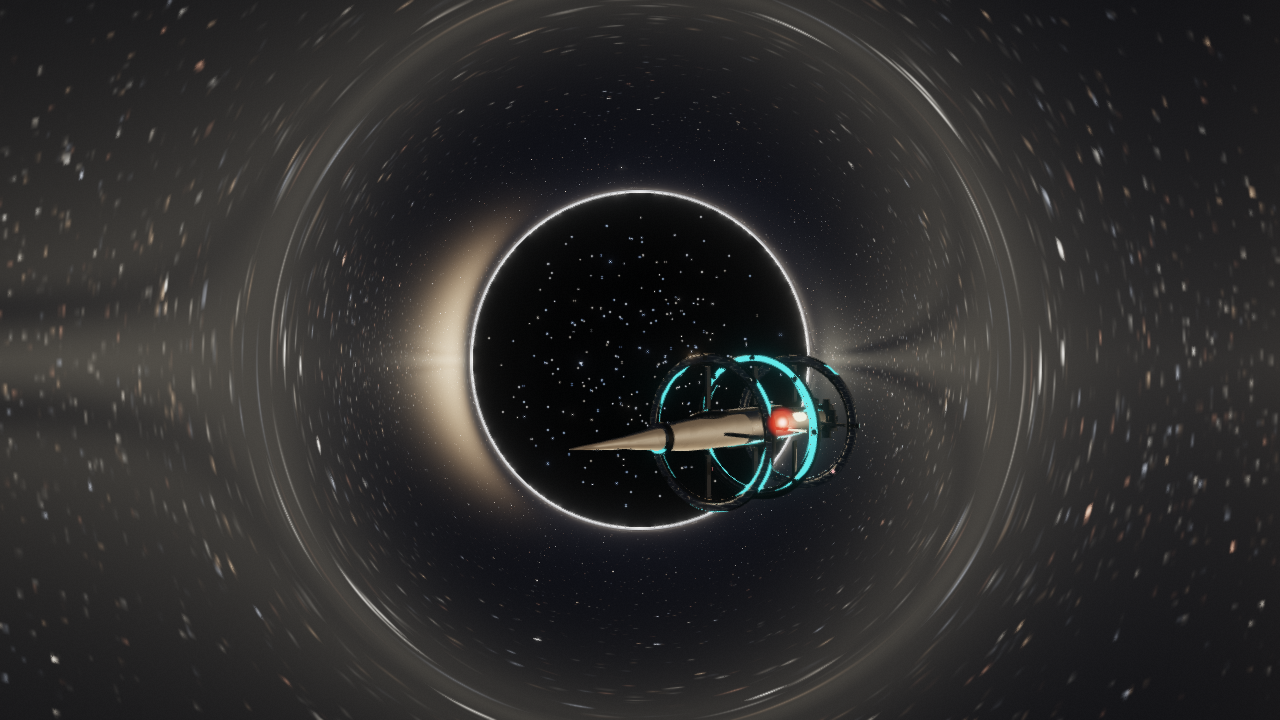
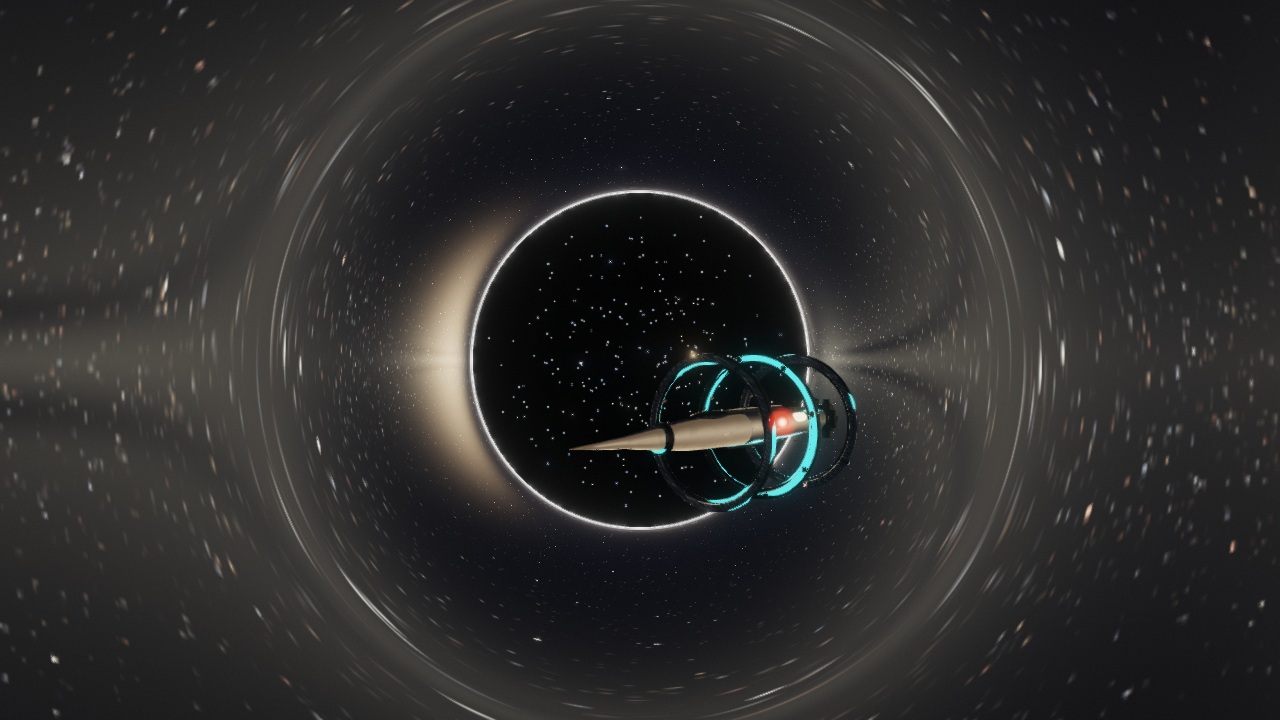
fix(ship): free-floating spinning rings, warp-gated aura, dimmer trails / свободные кольца, аура только в варпе, прозрачнее шлейф
- ring ship: remove hull-to-ring pylons (96 faces in the local ignored ring_ship.obj, plus 4 spokes per ring in the procedural fallback); rings now float free and spin in their own plane
- warp aura/cocoon: render only when warpVis > 0.1 and thruster > 0.05, never on idle or plain boost
- conventional boost: keep fuel consumption in ship::spendBoostFuel; fuelAccel only scales the engine flare
- trails: halve line intensity so the hull and starfield read through the cocoon
- update the static check for free rings; keep the Blender generator pylon-free
- refs: ship.png and ship_ring.png (visual batch)

Changed region(s): [[0.5, 0.4889, 0.6562, 0.7028]]

diff --git a/src/SceneManager.cpp b/src/SceneManager.cpp
@@ -36,6 +36,10 @@ bool g_shipVisible = false;
 float g_shipPos[3] = {0.0f, 0.0f, 0.0f};
 float g_shipYaw = 0.0f;
 float g_shipThruster = 0.7f;  // v3.3.0: тяга 0..1 (шлейф/движок от скорости)
+// v4.1: визуальный коэффициент обычного форсажа (0..1). Топливо живёт в
+// ShipState (m_ship.fuel), здесь только множитель для двигателя/эффектов,
+// чтобы не дублировать расход и не тратить его дважды.
+float g_fuelAccel = 0.0f;
 int g_shipStyle = 0;  // 0 Dart, 1 Ring Ship (IXS), 2 Shuttle, 3 Model (OBJ)
 float g_shipHull = 1.0f;  // v4.0.0: 1 = новый корпус, 0 = полностью побитый
 static ShipCustomization g_shipCustomization;
@@ -98,6 +102,12 @@ void setThruster(float k) {
   g_shipThruster = k;
 }
 float thruster() { return g_shipThruster; }
+void setFuelAccel(float k) {
+  if (k < 0.0f) k = 0.0f;
+  if (k > 1.0f) k = 1.0f;
+  g_fuelAccel = k;
+}
+float fuelAccel() { return g_fuelAccel; }
 void setShipHull(float integrity) {
   if (integrity < 0.0f) integrity = 0.0f;
   if (integrity > 1.0f) integrity = 1.0f;
@@ -1818,13 +1828,11 @@ void SceneManager::render(const Camera& camera, int fbWidth, int fbHeight, float
           parts.push_back({{0.0f, 0.0f, -0.82f}, {0.075f, 0.075f, 0.20f}, hullCol, 0, 0.90f, 0.32f});
           parts.push_back({{0.0f, 0.0f, -1.10f}, {0.030f, 0.030f, 0.30f}, hullCol, 0, 0.90f, 0.32f});
           parts.push_back({{0.0f, 0.0f, -1.38f}, {0.013f, 0.013f, 0.10f}, wingCol, 0, 0.72f, 0.45f});
-          // Три кольца, каждое на кресте из 4 пилонов (±x/±y, без поворотов).
-          for (float ringZ : {-0.44f, 0.0f, 0.44f}) {
+          // v4.1: три свободных варп-обруча вокруг корпуса, без спиц/пилонов.
+          // Раньше 4 спицы на кольцо образовывали продольные «рельсы» и
+          // визуально сшивали все три кольца в одну клетку.
+          for (float ringZ : {-0.50f, 0.0f, 0.50f}) {
             parts.push_back({{0.0f, 0.0f, ringZ}, {1.0f, 1.0f, 1.0f}, wingCol, 1, 0.78f, 0.28f});
-            parts.push_back({{0.20f, 0.0f, ringZ}, {0.13f, 0.014f, 0.035f}, wingCol, 0, 0.72f, 0.45f});
-            parts.push_back({{-0.20f, 0.0f, ringZ}, {0.13f, 0.014f, 0.035f}, wingCol, 0, 0.72f, 0.45f});
-            parts.push_back({{0.0f, 0.20f, ringZ}, {0.014f, 0.13f, 0.035f}, wingCol, 0, 0.72f, 0.45f});
-            parts.push_back({{0.0f, -0.20f, ringZ}, {0.014f, 0.13f, 0.035f}, wingCol, 0, 0.72f, 0.45f});
           }
           // Корма: обтекатель + центральное сопло с горлом + венец из 6 сопел.
           parts.push_back({{0.0f, 0.0f, 0.62f}, {0.135f, 0.135f, 0.16f}, hullCol, 0, 0.90f, 0.32f});
@@ -2266,10 +2274,12 @@ void SceneManager::render(const Camera& camera, int fbWidth, int fbHeight, float
         glBlendFunc(GL_SRC_ALPHA, GL_ONE);
         // v3.9.0: варп-кокон — эллипсоидный ореол из бегущих струй,
         // носовой веер, кормовой хвост и хризалидная оболочка.
-        // Аура видна ТОЛЬКО при движении с варп-искажением (warpVis > 0.001f).
-        if (warpVis > 0.001f) {
+        // Аура видна ТОЛЬКО при движении с варп-искажением (warpVis > 0.1f)
+        // И при активной тяге (thruster > 0.05f) — не на холостом ходу.
+        const float thr0 = warpdrive::thruster();
+        if (warpVis > 0.1f && thr0 > 0.05f) {
           const float warpAuraFade = glm::smoothstep(0.01f, 0.20f, warpVis);
-          const float thr = warpdrive::thruster();
+          const float thr = thr0 * (1.0f + 0.3f * warpdrive::fuelAccel());
           const float driftK = 1.1f + 5.5f * warpVis + 1.2f * thr;
           const float elongK = 1.0f + 0.35f * warpVis + 0.05f * thr;
           const float energyK = warpAuraFade * (0.30f + 0.75f * warpVis + 0.10f * thr);
@@ -2303,6 +2313,8 @@ void SceneManager::render(const Camera& camera, int fbWidth, int fbHeight, float
           s_tailLines.drawLines();
           m_trailShader->unbind();
         }
+        // v4.1: топливо обычного форсажа расходует ship::spendBoostFuel()
+        // в AppGL; здесь только визуальный отклик, без второго списания.
         // Движок: 1 крупная пульсирующая КРАСНАЯ точка за кормой.
         {
           const float sy = warpdrive::shipYaw();
@@ -2312,9 +2324,12 @@ void SceneManager::render(const Camera& camera, int fbWidth, int fbHeight, float
           const float ex = warpdrive::shipX() + engineBack * std::sin(sy);
           const float ez = warpdrive::shipZ() + engineBack * std::cos(sy);
           // v3.3.0: яркость и размер движка растут с тягой.
+          // v4.1: обычный форсаж на топливе (Shift) даёт заметный факел,
+          // но не включает варп-ауру — она живёт только при warpVis > 0.1.
           const float thr2 = warpdrive::thruster();
+          const float boost = warpdrive::fuelAccel();
           const float mag = (0.1f + 0.35f * std::sin(time * 18.0f)) *
-                            (0.55f + 1.45f * thr2);
+                            (0.55f + 1.45f * thr2) * (1.0f + 0.85f * boost);
           s_engine.setStars({glm::vec3(ex, warpdrive::shipY(), ez)}, {mag});
           const float pixelScale = static_cast<float>(fbHeight) /
               (2.0f * std::tan(glm::radians(m_settings.fovDegrees) * 0.5f));
@@ -2322,7 +2337,8 @@ void SceneManager::render(const Camera& camera, int fbWidth, int fbHeight, float
           m_starShader->setUniformMat4f("u_MVP", mvp);
           m_starShader->setUniformMat4f("u_MV", view);
           m_starShader->setUniform1f("u_PixelScale", pixelScale);
-          m_starShader->setUniform1f("u_SizeK", 0.22f * (0.75f + 0.75f * thr2));
+          m_starShader->setUniform1f("u_SizeK", 0.22f * (0.75f + 0.75f * thr2) *
+                                                   (1.0f + 0.55f * boost));
           m_starShader->setUniform1f("u_Time", time);
           m_starShader->setUniform3f("u_Tint", kGlowTint[pal].x, kGlowTint[pal].y,
                                      kGlowTint[pal].z);

diff --git a/blender/scripts/generate_ring_ship.py b/blender/scripts/generate_ring_ship.py
@@ -361,6 +361,9 @@ def build_ring_ship():
     parts.append(deflector)
 
     # 5. Three Alcubierre Resonance Warp Rings (-0.44, 0.0, +0.44)
+    # v4.1: кольца намеренно НЕ соединены с корпусом пилонами/спицами —
+    # это свободные варп-обручи, вращающиеся в собственной плоскости.
+    # Не добавляйте support pylons: они визуально «сшивают» кольца в клетку.
     ring_positions = [-0.44, 0.0, 0.44]
     for r_idx, rz in enumerate(ring_positions):
         r_tag = f"R{r_idx+1}"
@@ -391,22 +394,7 @@ def build_ring_ship():
         torus_emit.data.materials.append(m_emitter)
         parts.append(torus_emit)
 
-        # 5c. 4-Way Aerodynamic Support Pylons (+X, -X, +Y, -Y)
-        pylon_defs = [
-            ("PX",  0.25,  0.00, (0.24, 0.016, 0.038)),
-            ("NX", -0.25,  0.00, (0.24, 0.016, 0.038)),
-            ("PY",  0.00,  0.25, (0.016, 0.24, 0.038)),
-            ("NY",  0.00, -0.25, (0.016, 0.24, 0.038)),
-        ]
-        for p_name, px, py, p_scale in pylon_defs:
-            bpy.ops.mesh.primitive_cube_add(size=1.0, location=(px, py, rz))
-            pylon = bpy.context.active_object
-            pylon.name = f"Ring_Pylon_{r_tag}_{p_name}"
-            pylon.scale = p_scale
-            pylon.data.materials.append(m_accent)
-            parts.append(pylon)
-
-        # 5d. Harmonic Field Nodes (8 per ring)
+        # 5c. Harmonic Field Nodes (8 per ring)
         for node_i in range(8):
             ang = node_i * math.pi / 4.0
             nx = 0.42 * math.cos(ang)

diff --git a/src/AppGL.cpp b/src/AppGL.cpp
@@ -3599,6 +3599,9 @@ void AppGL::updateSpeedFx(float deltaTime) {
   // v3.3.0: тяга масштабирует шлейф/движок корабля и гул в audioUpdate.
   // На форсаже пламя сопел раскрывается на максимум (1.0f).
   warpdrive::setThruster(m_ship.boostActive ? std::max(speedK, 1.0f) : speedK);
+  // v4.1: обычный форсаж (Shift + ход, топливо) — визуальный факел двигателя.
+  // Варп-аура от этого НЕ включается: её гейт по warpVis в SceneManager.
+  warpdrive::setFuelAccel(m_ship.boostActive ? 1.0f : 0.0f);
   // Микро-FOV: +3° на полном эффекте поверх варп-кривой (+10° * m_warpK).
   auto& st = m_sceneManager->getSettings();
   if (m_warpBaseFov <= 1.0f) m_warpBaseFov = st.fovDegrees;  // ленивая база

diff --git a/src/AppGL.h b/src/AppGL.h
@@ -544,6 +544,10 @@ const ShipCustomization& shipCustomization();
 void setDockSitesVisible(bool v);
 bool dockSitesVisible();
 void setThruster(float k);  // v3.3.0: тяга 0..1 (шлейф/движок от скорости)
+// v4.1: визуальный коэффициент обычного форсажа 0..1 (Shift + ход, топливо).
+// Расход топлива остаётся в ship::spendBoostFuel; аура от него не включается.
+void setFuelAccel(float k);
+float fuelAccel();
 // v4.0.0: целостность корпуса 0..1 (1 = новый, 0 = побитый). Влияет на
 // визуальное состояние OBJ-корпуса и процедурного fallback стиля 3.
 void setShipHull(float integrity);
